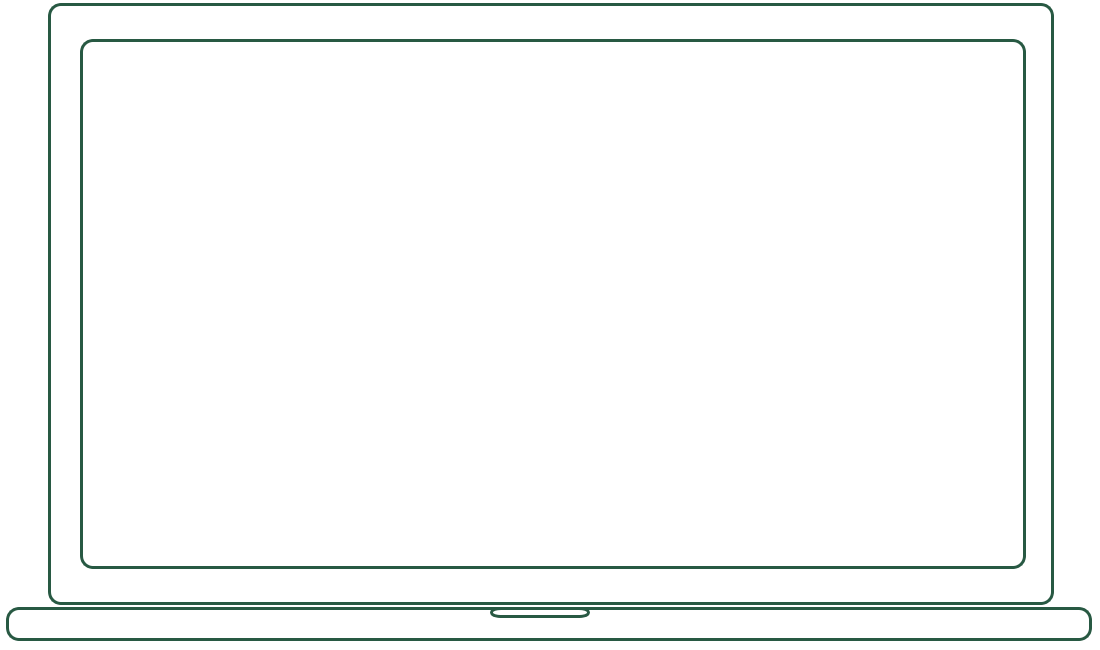
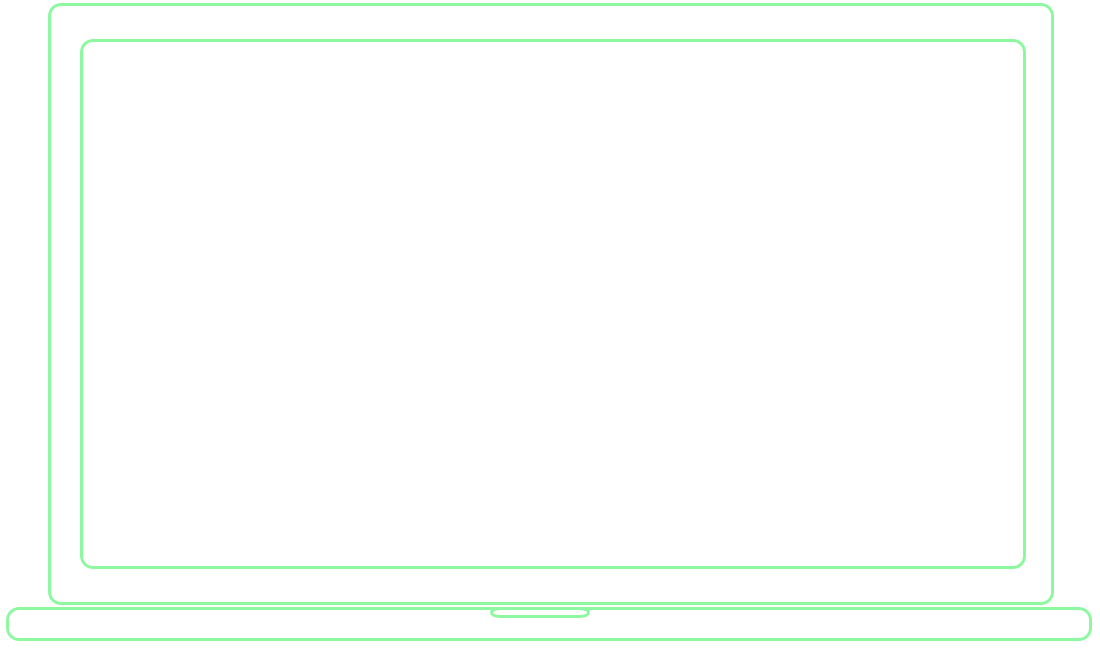
green theme change

diff --git a/react/src/containers/Projects.js b/react/src/containers/Projects.js
@@ -1,6 +1,6 @@
 import  React ,{ useState } from 'react';
 import { Container , Row , Col } from 'react-bootstrap';
-
+import { useSwipeable, Swipeable } from 'react-swipeable'
 function Projects(props) {
 	const [animestateA, setAnimeStateA] = useState(false);	
 	const [animestateB, setAnimeStateB] = useState(false);		
@@ -9,7 +9,6 @@ function Projects(props) {
 	const [projectstate, setProjectState] = useState([0,1,2,3]);
 	const [activeprojectstate, setActiveProjectState] = useState(0);
 	const [sliderproject, setSliderProject] = useState({company:"",img:"",desc:"",time:""});
-
 	let projectlist = props.pjlist
 	let projectn = projectlist.length
 	const n = Math.round(projectn/4)
@@ -25,12 +24,27 @@ function Projects(props) {
 		setAnimeStateA(true)
 		setActiveProjectState(parseInt(ac))
 	}
+	function onNavarChangeWithValue(val){
+		let old = activeprojectstate
+		let ac= val ? activeprojectstate + 1 : activeprojectstate-1
+		ac = ac < 0 ? 0 : ac
+		ac = ac > 3 ? 3 : ac		
+		if (!(old === ac)){
+			let rr = ac * 4
+			let array = [rr+ 0 ,rr+ 1 ,rr+ 2 , rr+ 3 ]
+			setProjectState(array)
+			setAnimeStateA(true)
+			setActiveProjectState(parseInt(ac))
+		}
+	}
+
 	function onProjectSelect(name,img,desc,time,id){
 		setCurSlider(parseInt(id))
 		setSliderProject({company:name,img:img,desc:desc,time:time})
 	}
   return (
 	<section id="projects-section">
+		<Swipeable onSwipedLeft={(eventData) => onNavarChangeWithValue(false)}   onSwipedRight={(eventData) => onNavarChangeWithValue(true)}>			
 		<Container>
 			<Row>
 				<Col className="centered">
@@ -51,44 +65,45 @@ function Projects(props) {
 					</Row>
 				</Container>
 			</Row>
-			<div className={animestateB ? "slider-under" : ""} onAnimationEnd={() => {animestateA ? console.log("as") : setAnimeStateC(true)}}>
-				<Row>
-					<Container className={animestateA ? "slider-star slider-star-anime" : "slider-star"} onAnimationEnd={() =>{setAnimeStateA(false)}}>
-						<Row className={ curslider === 0 ? "slider-row slider-row-1" : "slider-row"}>
-							<Col className={ curslider === 1 ? "slider slider-color" : "slider"}>
-								<ProjectLogo src={projectlist[projectstate[0]].logo} cls="project-1" proname={projectlist[projectstate[0]].company} desc={projectlist[projectstate[0]].intro}  time={projectlist[projectstate[0]].time}/>
-							</Col>
-							<Col className={ curslider === 2 ? "slider slider-color" : "slider"}>
-								<ProjectLogo src={projectlist[projectstate[1]].logo} cls="project-2" proname={projectlist[projectstate[1]].company} desc={projectlist[projectstate[0]].intro}  time={projectlist[projectstate[0]].time}/>
-							</Col>
-						</Row>
-						<Row className={curslider === 0 ? "slider-row slider-row-2" : "slider-row"}>
-							<Col className={ curslider === 3 ? "slider slider-color" : "slider"}>
-								<ProjectLogo src={projectlist[projectstate[2]].logo} cls="project-3" proname={projectlist[projectstate[2]].company} desc={projectlist[projectstate[0]].intro}  time={projectlist[projectstate[0]].time}/>
-							</Col>
-							<Col className={ curslider === 4 ? "slider slider-color" : "slider"}>
-								<ProjectLogo src={projectlist[projectstate[3]].logo} cls="project-4" proname={projectlist[projectstate[3]].company} desc={projectlist[projectstate[0]].intro}  time={projectlist[projectstate[0]].time}/>
-							</Col>
-						</Row>
-					</Container>	
-				</Row>			
-				<Row className="slider-nav">
-					<Col>
-						{
-							a.map((user,i) => {
-								return(<button id={"navar-"+i} key={i} value={i} onClick={onNavarChange} className={activeprojectstate===i ? "dbutton navar navar-active" : "dbutton navar"}></button>)
-							})
+				<div className={animestateB ? "slider-under" : ""} onAnimationEnd={() => {animestateA ? void(0) : setAnimeStateC(true)}}>
+					<Row>
+						<Container className={animestateA ? "slider-star slider-star-anime" : "slider-star"} onAnimationEnd={() =>{setAnimeStateA(false)}}>
+							<Row className={ curslider === 0 ? "slider-row slider-row-1" : "slider-row"}>
+								<Col className={ curslider === 1 ? "slider slider-color" : "slider"}>
+									<ProjectLogo src={projectlist[projectstate[0]].logo} cls="project-1" proname={projectlist[projectstate[0]].company} desc={projectlist[projectstate[0]].intro}  time={projectlist[projectstate[0]].time}/>
+								</Col>
+								<Col className={ curslider === 2 ? "slider slider-color" : "slider"}>
+									<ProjectLogo src={projectlist[projectstate[1]].logo} cls="project-2" proname={projectlist[projectstate[1]].company} desc={projectlist[projectstate[0]].intro}  time={projectlist[projectstate[0]].time}/>
+								</Col>
+							</Row>
+							<Row className={curslider === 0 ? "slider-row slider-row-2" : "slider-row"}>
+								<Col className={ curslider === 3 ? "slider slider-color" : "slider"}>
+									<ProjectLogo src={projectlist[projectstate[2]].logo} cls="project-3" proname={projectlist[projectstate[2]].company} desc={projectlist[projectstate[0]].intro}  time={projectlist[projectstate[0]].time}/>
+								</Col>
+								<Col className={ curslider === 4 ? "slider slider-color" : "slider"}>
+									<ProjectLogo src={projectlist[projectstate[3]].logo} cls="project-4" proname={projectlist[projectstate[3]].company} desc={projectlist[projectstate[0]].intro}  time={projectlist[projectstate[0]].time}/>
+								</Col>
+							</Row>
+						</Container>	
+					</Row>			
+					<Row className="slider-nav">
+						<Col>
+							{
+								a.map((user,i) => {
+									return(<button id={"navar-"+i} key={i} value={i} onClick={onNavarChange} className={activeprojectstate===i ? "dbutton navar navar-active" : "dbutton navar"}></button>)
+								})
 
-						}
-					</Col>
-				</Row>
+							}
+						</Col>
+					</Row>
 
-			</div>
+				</div>
 		</Container>
+		</Swipeable>
 	</section>
   );
   function ProjectLogo(props){
-  	return(	<button onClick={() => {setAnimeStateB(true);onProjectSelect(props.proname,props.src,props.desc,props.time,props.cls[8])}} className="dbutton"><img alt={props.proname} className={props.cls}  src={props.src} /></button>
+  	return(<button onClick={() => {setAnimeStateB(true);onProjectSelect(props.proname,props.src,props.desc,props.time,props.cls[8])}} className="dbutton"><img alt={props.proname} className={props.cls}  src={props.src} /></button>
 )
   }
 }

diff --git a/react/src/containers/Contact.js b/react/src/containers/Contact.js
@@ -1,5 +1,5 @@
 import  React ,{ useState } from 'react';
-import { Container , Row , Col , Form , Button , OverlayTrigger ,Tooltip } from 'react-bootstrap';
+import { Container , Row , Col , Form , Button , OverlayTrigger ,Tooltip , Alert} from 'react-bootstrap';
 
 function Contact(props) {
 	const [ConName, setConName] = useState("");
@@ -9,13 +9,20 @@ function Contact(props) {
 	const [ConEmailError, setConEmailError] = useState(false);
 	const [ConMessageError, setConMessageError] = useState(false);		
 	const [FormState, setFormState] = useState(true);
-	let a,b,c = false
+	const [FormPromise, setFormPromise] = useState(0);	
+	function resetError(){
+		setConNameError(false)		
+		setConEmailError(false)		
+		setConMessageError(false)		
+	}
 	function handleSubmit(e) {
+		let VaildState = 0
 		e.preventDefault();
-		if (ConName===""){setConNameError(true)}
-		else if (ConEmail===""){setConNameError(false);setConEmailError(true)}
-		else if (ConMessage===""){setConEmailError(false);setConMessageError(true)}
-		else if (FormState){setConMessageError(false);sendForm();setFormState(false)}
+		if (ConName===""){setConNameError(true)} else{VaildState+=1}
+		if (ConEmail===""){setConEmailError(true)} else{VaildState+=1}
+		if (ConMessage===""){setConMessageError(true)} else{VaildState+=1}
+		console.log (FormState, VaildState)
+		if (FormState && VaildState === 3){sendForm();setFormState(false)}
 		  }
   function sendForm(){
   			fetch('./send',{
@@ -29,10 +36,10 @@ function Contact(props) {
 		    	(response) => (response.json())
 		       ).then((response)=>{
 		      if (response.status === 'success'){
-		        alert("Message Sent."); 
+		        setFormPromise(1) 
 		        resetForm()
 		      }else if(response.status === 'fail'){
-		        alert("Message failed to send.")
+				setFormPromise(3)
 		      }
 	    })
   }
@@ -59,7 +66,7 @@ function Contact(props) {
 					 <OverlayTrigger show={ConNameError}  placement="bottom-start" delay={{ hide: 2000 }} overlay={({ placement, arrowProps, show: _show, popper, ...props }) => (<div className="error-tooltip" {...props}><span>!</span>Please write your Name</div>)}>
 								<Form.Group controlId="formGroupName">
 									<Form.Label>Name</Form.Label>
-									<Form.Control onChange={(event)=>{setConName(event.target.value)}} value={ConName} type="text" placeholder="" />
+									<Form.Control onChange={(event)=>{setConNameError(false);setConName(event.target.value)}} value={ConName} type="text" placeholder="" />
 								</Form.Group>
 					 </OverlayTrigger>		
 					   		</Col>
@@ -67,7 +74,7 @@ function Contact(props) {
 					 <OverlayTrigger show={ConEmailError} placement="bottom-start" delay={{ hide: 2000 }} overlay={({ placement, arrowProps, show: _show, popper, ...props }) => (<div className="error-tooltip" {...props}><span>!</span>Please write your Email</div>)}>
 								<Form.Group controlId="formGroupEmail">
 									<Form.Label>Email</Form.Label>
-									<Form.Control onChange={(event)=>{setConEmail(event.target.value)}} value={ConEmail}  type="email" placeholder="" />
+									<Form.Control onChange={(event)=>{setConEmailError(false);setConEmail(event.target.value)}} value={ConEmail}  type="email" placeholder="" />
 								</Form.Group>				   		
 					 </OverlayTrigger>		
 					   		</Col>
@@ -75,13 +82,19 @@ function Contact(props) {
 					 <OverlayTrigger show={ConMessageError} placement="bottom-start" delay={{ hide: 2000 }} overlay={({ placement, arrowProps: _arrowProps, show: _show, popper, ...props }) => (<div className="error-tooltip" {...props}><span>!</span>Please write your Message</div>)}>
 						<Form.Group controlId="formGroupMessage">
 							<Form.Label>Message</Form.Label>
-							<Form.Control onChange={(event)=>{setConMessage(event.target.value)}} value={ConMessage}  as="textarea" rows={8} placeholder="....." />
+							<Form.Control onChange={(event)=>{setConMessageError(false);setConMessage(event.target.value)}} value={ConMessage}  as="textarea" rows={8} placeholder="....." />
 						</Form.Group>
 					 </OverlayTrigger>		
 						<div className="centered">
 						  <Button className="contact-submit" variant="primary" type="submit">
 						    Submit
 						  </Button>
+						  <Alert className={FormPromise===1 ? "" : "hidden"} key={1} variant={props.theme === "blue" ? "primary" : "success"}>
+						    Your message has been sent successfully
+						  </Alert>						  
+						  <Alert className={FormPromise===3 ? "" : "hidden"} key={3} variant={"danger"}>
+						    Ops! your message has been not sent , try again later
+						  </Alert>							  						  
 						</div>		
 					</Form>
 				</Col>

diff --git a/react/src/components/style/components.scss b/react/src/components/style/components.scss
@@ -1,5 +1,3 @@
-@import "../../theme";
-$main-1:#343a40;
 @import "./animation";
 
 	#navigation-section{
@@ -95,16 +93,13 @@ clip-path: polygon(0 -2%, 100% -2%, 100% 100%, 0% 100%);
 		padding-left: 8rem;
 		.skill-bar{
 			margin-bottom: 1rem;
-			background-color: $color-2;
 			text-align: left;
 			.bar-name{
 				padding:2.5px;
 				width: 90px;
 				text-align: center;
-				background-color: $color-2;
 			}
 			.bar-percent{
-				background-color: $color-5;
 				padding:0!important;
 			}
 		}
@@ -122,7 +117,6 @@ clip-path: polygon(0 -2%, 100% -2%, 100% 100%, 0% 100%);
 	.slider-show{
 		margin-top: 1rem;
 		background-color: transparent;
-		border:2px solid $color-1;
 		width: 60vw;
 		height: 400px;
 		animation:  bounceInDown 2s linear;
@@ -133,7 +127,6 @@ clip-path: polygon(0 -2%, 100% -2%, 100% 100%, 0% 100%);
 			height: 100%;
 		}	
 		.slider-show-col{
-			border-right: 2px solid $color-1;
 
 			img{
 				width:100%;
@@ -147,7 +140,6 @@ clip-path: polygon(0 -2%, 100% -2%, 100% 100%, 0% 100%);
 	}
 	.slider-star{
 		margin-top: 1rem;
-		background-color: $color-1;
 		width: 400px;
 		height: 400px;
 		padding:0 !important;
@@ -170,12 +162,10 @@ clip-path: polygon(0 -2%, 100% -2%, 100% 100%, 0% 100%);
 			.navar{
 				height: 15px;
 				width: 15px;
-				border:1px solid $color-1;
 				border-radius: 20px;
 				margin-right: 0.5rem;
 			}
 			.navar-active{
-				background-color: $color-1;
 			}			
 		.navar-active.active.focus, .navar-active.active:focus,
 		.navar-active.focus, .navar-active:active.focus, 
@@ -199,7 +189,6 @@ clip-path: polygon(0 -2%, 100% -2%, 100% 100%, 0% 100%);
 		}
 
 	.slider{
-		border:1px solid $color-5;
 		padding: 0;
 		overflow: hidden;
 		position: relative;
@@ -226,9 +215,7 @@ clip-path: polygon(0 -2%, 100% -2%, 100% 100%, 0% 100%);
 		}
 
 	}	
-	.slider-color{
-		background: linear-gradient(to top,$color-5, $color-3 100%);	
-	}
+
 
 }
 
@@ -241,7 +228,9 @@ clip-path: polygon(0 -2%, 100% -2%, 100% 100%, 0% 100%);
 		right:0;
 		top:0;
 	}
-
+	.contact-submit{
+			margin-bottom: 1rem;
+	}
 }
 .error-tooltip::after {
   content: " ";

diff --git a/react/src/theme.scss b/react/src/theme.scss
@@ -16,13 +16,13 @@ $color-5:#A6E1FA !global;
 		transition: background-color 1s;		
 	.skillset{
 		.skill-bar{background-color: $color-2;transition: background-color 1s;
-			.bar-name{background-color: $color-2;transition: background-color 1s;}
+			.bar-name{background-color: $color-2;border-right: 1px solid $color-5;transition: background-color 1s;}
 			.bar-percent{background-color: $color-5;transition: background-color 1s;}
 		}}}
 	#projects-section{
 		background-color: $color-4;
 		transition: background-color 1s;		
-		color: $color-1;
+		color: $color-5;
 		.slider-show{border:2px solid $color-1;
 		.row{.slider-show-col{border-right: 2px solid $color-1;}}
 	}
@@ -121,11 +121,11 @@ $color-5:#A6E1FA !global;
 }
 }
 .green{
-$color-1:#AAFCB8 !global;
-$color-2:#D7FFF1 !global;
+$color-1:#002D07 !global;
+$color-2:#00551C !global;
 $color-3:#8CD790 !global;
-$color-4:#77AF9C !global;
-$color-5:#285943 !global;
+$color-4:#008148 !global;
+$color-5:#8EF8A0 !global;
 	#navigation-section{background-color: $color-1 !important;transition: background-color 1s;
 						.nav-link{color:$color-5}
 		.wave:before{background: $color-4;}}
@@ -137,13 +137,13 @@ $color-5:#285943 !global;
 		transition: background-color 1s;		
 	.skillset{
 		.skill-bar{background-color: $color-2;transition: background-color 1s;
-			.bar-name{background-color: $color-2;transition: background-color 1s;}
+			.bar-name{background-color: $color-2;border-right: 1px solid $color-5;transition: background-color 1s;}
 			.bar-percent{background-color: $color-5;transition: background-color 1s;}
 		}}}
 	#projects-section{
 		background-color: $color-4;
 		transition: background-color 1s;		
-		color: $color-1;
+		color: $color-5;
 		.slider-show{border:2px solid $color-1;
 		.row{.slider-show-col{border-right: 2px solid $color-1;}}
 	}

diff --git a/react/src/components/laptop.js b/react/src/components/laptop.js
@@ -44,7 +44,7 @@ function Laptop(props){
 	<Container className="my-lab" style={{backgroundImage : props.theme === "blue" ? 'url("/img/laptop-1.png")' : 'url("/img/laptop-2.png")'}}>
 		<div className="d-flex justify-content-center">
 			<div className={fusestate ? "magic-work" : ""}>	
-				<Button className="btn" onClick={() => {setFusestate(true)}}>
+				<Button className="dbutton" onClick={() => {setFusestate(true)}}>
 					 <OverlayTrigger show={triggerstate} placement="top-start" delay={{ show: 1, hide: 200 }} overlay={<Tooltip id="logo-tooltip">Click on me!</Tooltip>}>
 						<img className="yaito-logo" alt="mylogo" onAnimationEnd={() =>{setFusestate(true)}} src={props.theme === "blue" ? "img/logo-1.png" : "img/logo-2.png"} width="60"/>		
 					 </OverlayTrigger>				

diff --git a/react/src/App.js b/react/src/App.js
@@ -17,7 +17,7 @@ class App extends Component {
 	onThemeChange= () =>{
 		let current = this.state.theme
 		let nexttheme= current === "blue" ? "green" : "blue"
-		let colors = current === "blue" ? ["#AAFCB8","#D7FFF1","#8CD790","#77AF9C","#285943"] : ["#00072D","#001C55","#0A2472","#0E6BA8","#A6E1FA"]
+		let colors = current === "blue" ? ["#002D07","#3F825A","#8CD790","#008148","#8EF8A0"] :["#00072D","#001C55","#0A2472","#0E6BA8","#A6E1FA"]
 		this.setState({theme : nexttheme,colors: colors})
 	}
   	render(){

diff --git a/react/src/components/style/_animation.scss b/react/src/components/style/_animation.scss
@@ -1,4 +1,3 @@
-@import "../../theme";
 #navigation-section{
 	.nav-logo{
 		z-index: 1000;
@@ -35,18 +34,12 @@
 
 @keyframes animate
 {
-	0%
-	{
-		transform: rotate(60deg);
+	0%{
+		transform: rotate(0deg);
 	}
-	50%
-	{	
-		transform:rotate(100deg);
+	100%{	
+		transform:rotate(360deg);
 	}
-	100%
-	{	
-		transform:rotate(60deg);
-	}	
 }
 
 @keyframes animate-2

diff --git a/react/src/containers/style/containers.scss b/react/src/containers/style/containers.scss
@@ -1,5 +1,3 @@
-@import "../../theme";
-
 #navigation-section{
 }
 
